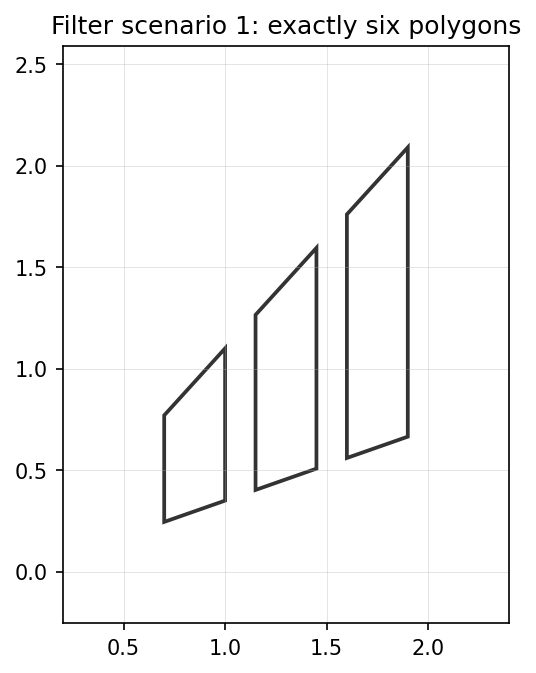
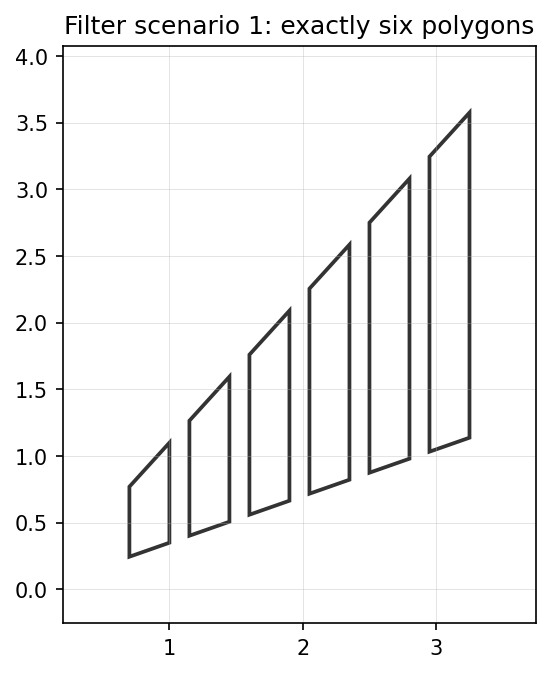
Bug fix

diff --git a/2lab/demo.py b/2lab/demo.py
@@ -80,7 +80,7 @@ def save_transformations() -> None:
 
 def save_filter_scenarios() -> None:
     # Scenario 1: from p.4 figures, keep exactly six by area.
-    filtered_six = tuple(filter(flt_square(0.42), quads_between_rays(15)))
+    filtered_six = tuple(filter(flt_square(0.7), quads_between_rays(15)))
     plot_polygons(filtered_six, title="Filter scenario 1: exactly six polygons", save_path=OUT / "06_filter_exactly_six.png")
 
     # Scenario 2: from >=15 scaled figures, select <=4 with a short side under threshold.